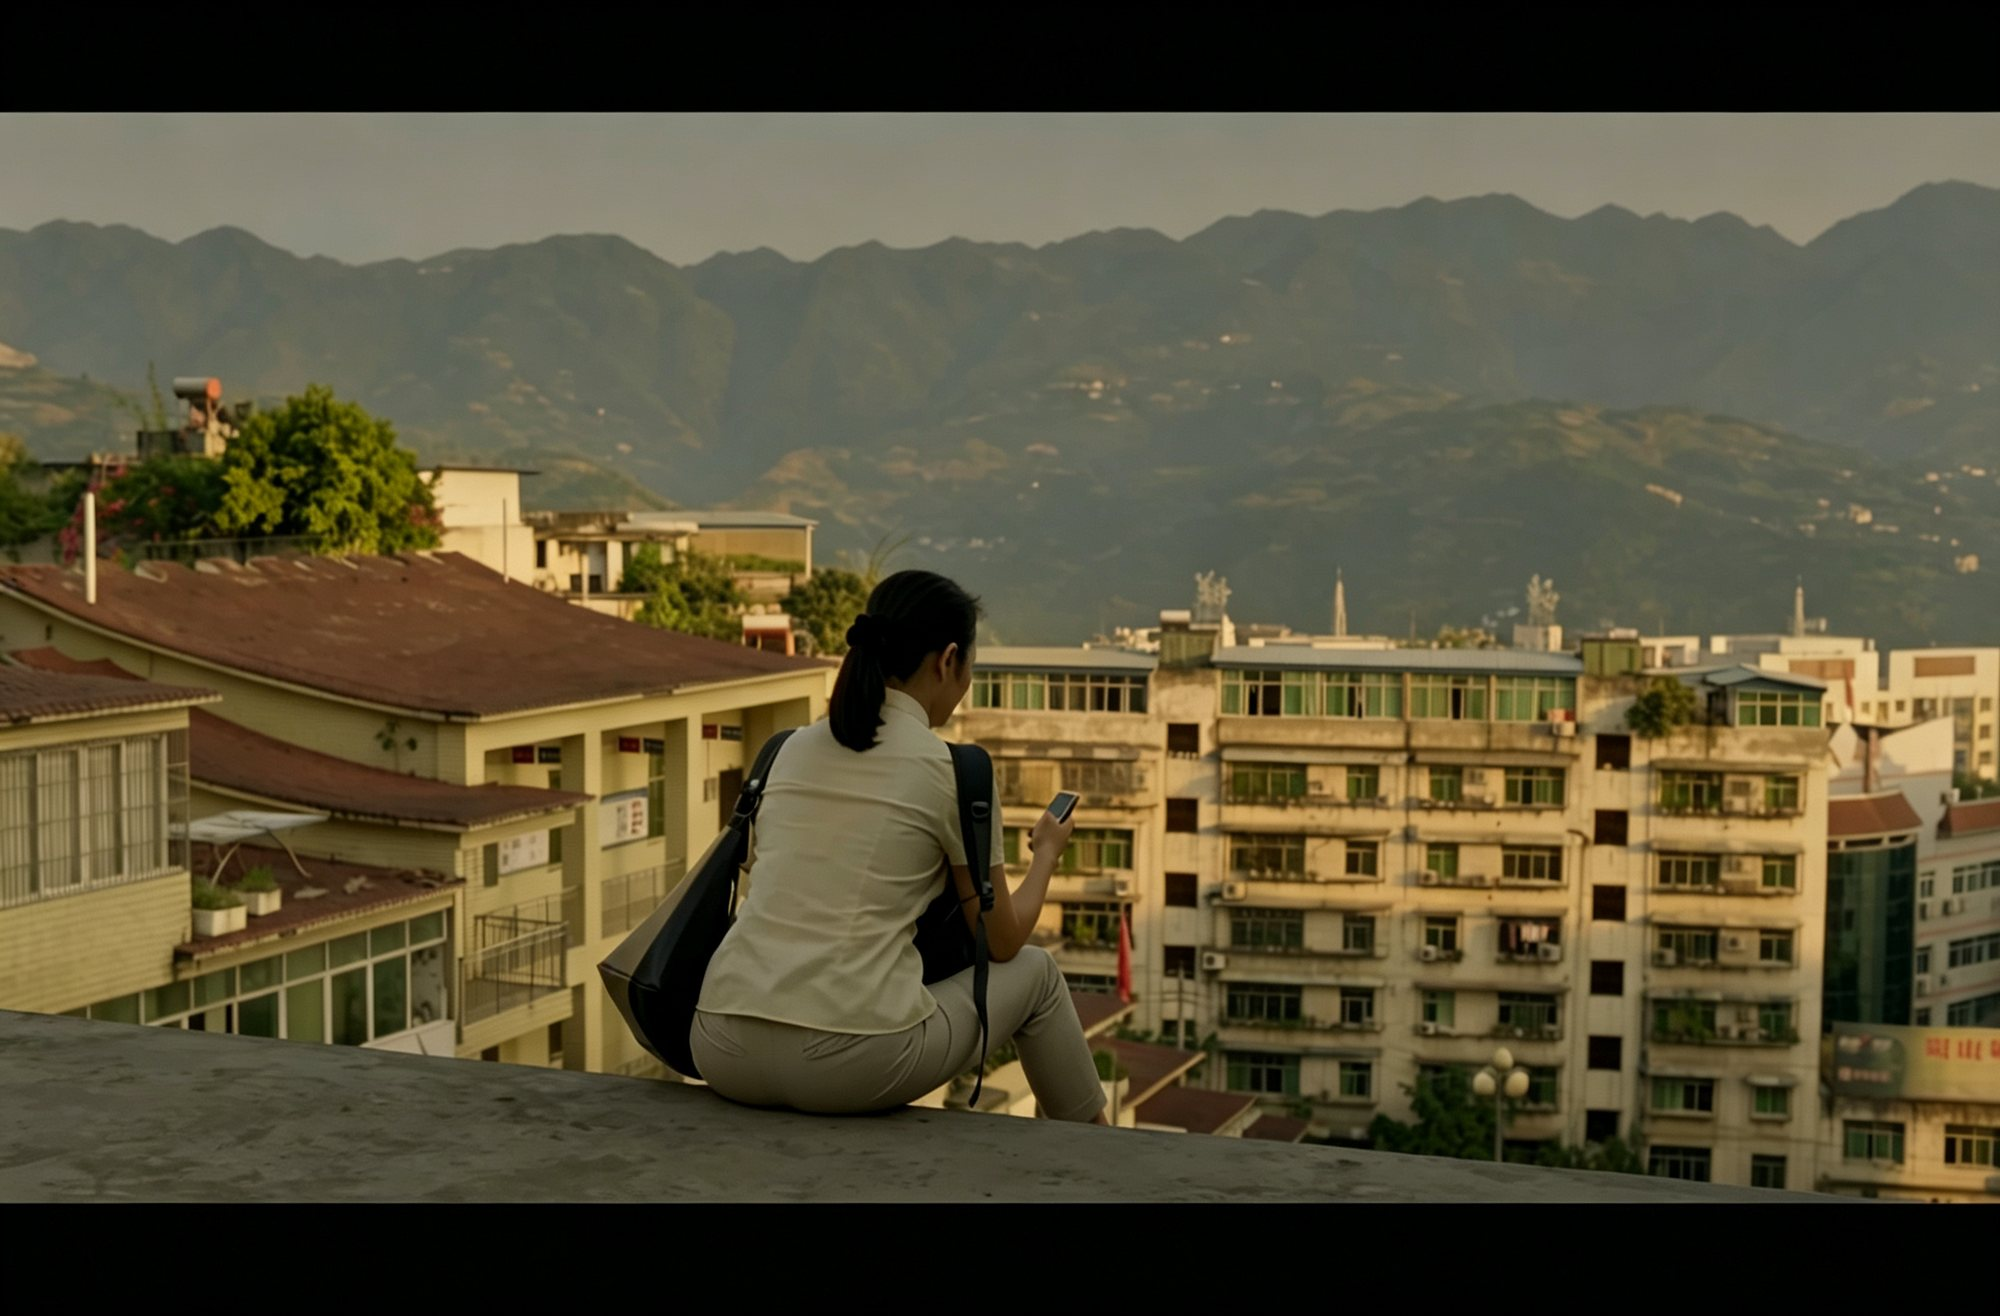
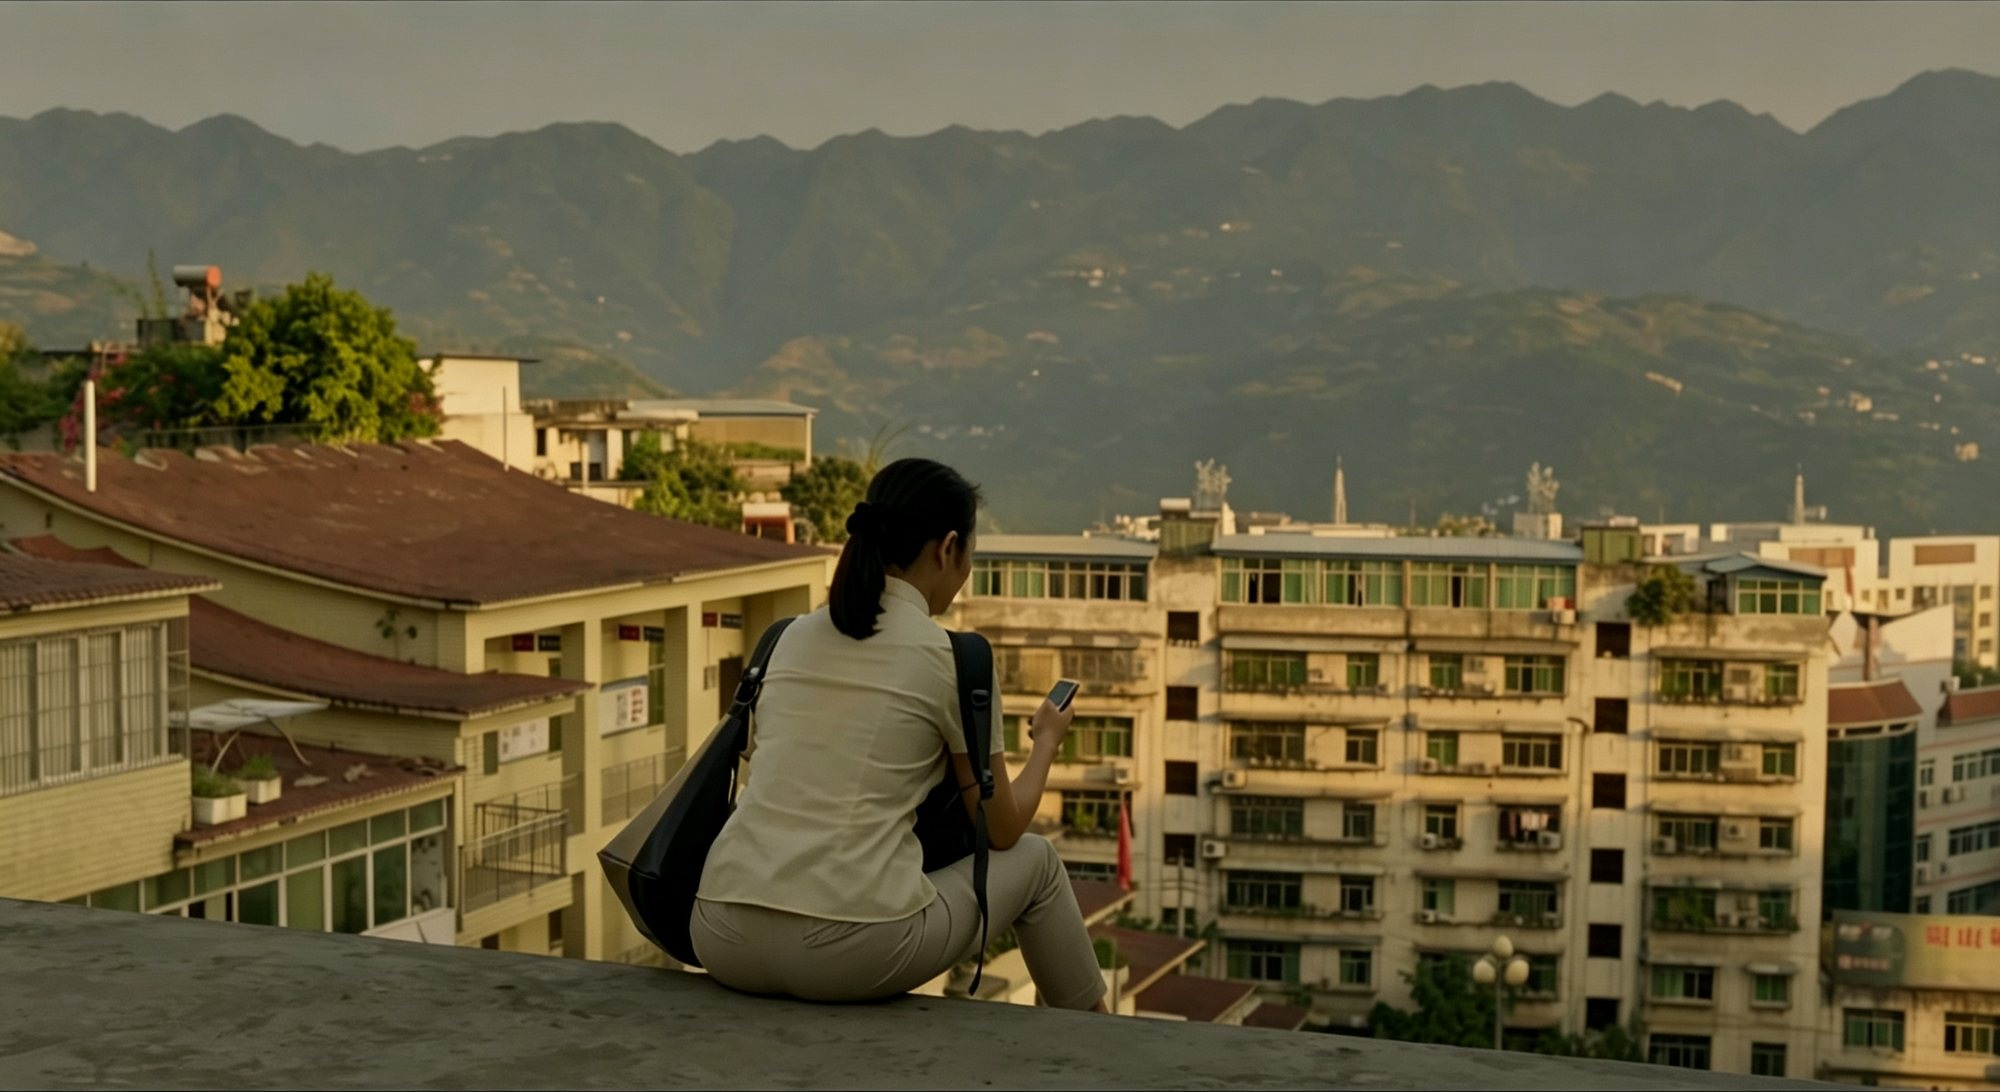
Crop Wushan film still to remove letterboxing

diff --git a/articles/wushan.html b/articles/wushan.html
@@ -40,7 +40,7 @@
 <p>电影里的女人站在江边。侧逆光把她变成一个轮廓，远处的山雾、近处的人和大片留白，共同把一个普通动作拉长了。</p>
 <p>我在大中午拍下同行的人，衣服、栏杆、山水都很清楚。但也正因为一切都太清楚，观众不知道该先看什么，更不知道这个人为什么站在这里。</p>
 <div class="comparison-grid" aria-label="江边人物场景对比">
-  <figure><a class="figure-link" href="../assets/articles/wushan/movie-figure.jpg"><img src="../assets/articles/wushan/movie-figure.jpg" width="2000" height="1316" alt="电影中的巫山江边人物场景" loading="lazy"></a><figcaption>电影里的人物：光线、轮廓与山雾一起构成了情绪。</figcaption></figure>
+  <figure><a class="figure-link" href="../assets/articles/wushan/movie-figure.jpg"><img src="../assets/articles/wushan/movie-figure.jpg" width="2000" height="1092" alt="电影中的巫山江边人物场景" loading="lazy"></a><figcaption>电影里的人物：光线、轮廓与山雾一起构成了情绪。</figcaption></figure>
   <figure><a class="figure-link" href="../assets/articles/wushan/user-figure.jpg"><img src="../assets/articles/wushan/user-figure.jpg" width="2000" height="1500" alt="我在巫山江边拍摄的人物照片" loading="lazy"></a><figcaption>我拍的人物：信息完整，情绪却没有被组织起来。</figcaption></figure>
 </div>
 

diff --git a/index.html b/index.html
@@ -1373,7 +1373,7 @@ function buildResearchCard(r,i,isOverview){
   }
   if(isOverview&&r.href==="articles/wushan.html"){
     const summary=d.querySelector(".why");
-    summary.insertAdjacentHTML("afterend",'<figure class="writing-illustration"><img src="assets/articles/wushan/movie-figure.jpg" width="2000" height="1316" alt="电影中的巫山江边人物剧照" loading="lazy"></figure>');
+    summary.insertAdjacentHTML("afterend",'<figure class="writing-illustration"><img src="assets/articles/wushan/movie-figure.jpg" width="2000" height="1092" alt="电影中的巫山江边人物剧照" loading="lazy"></figure>');
   }
   return d;
 }
